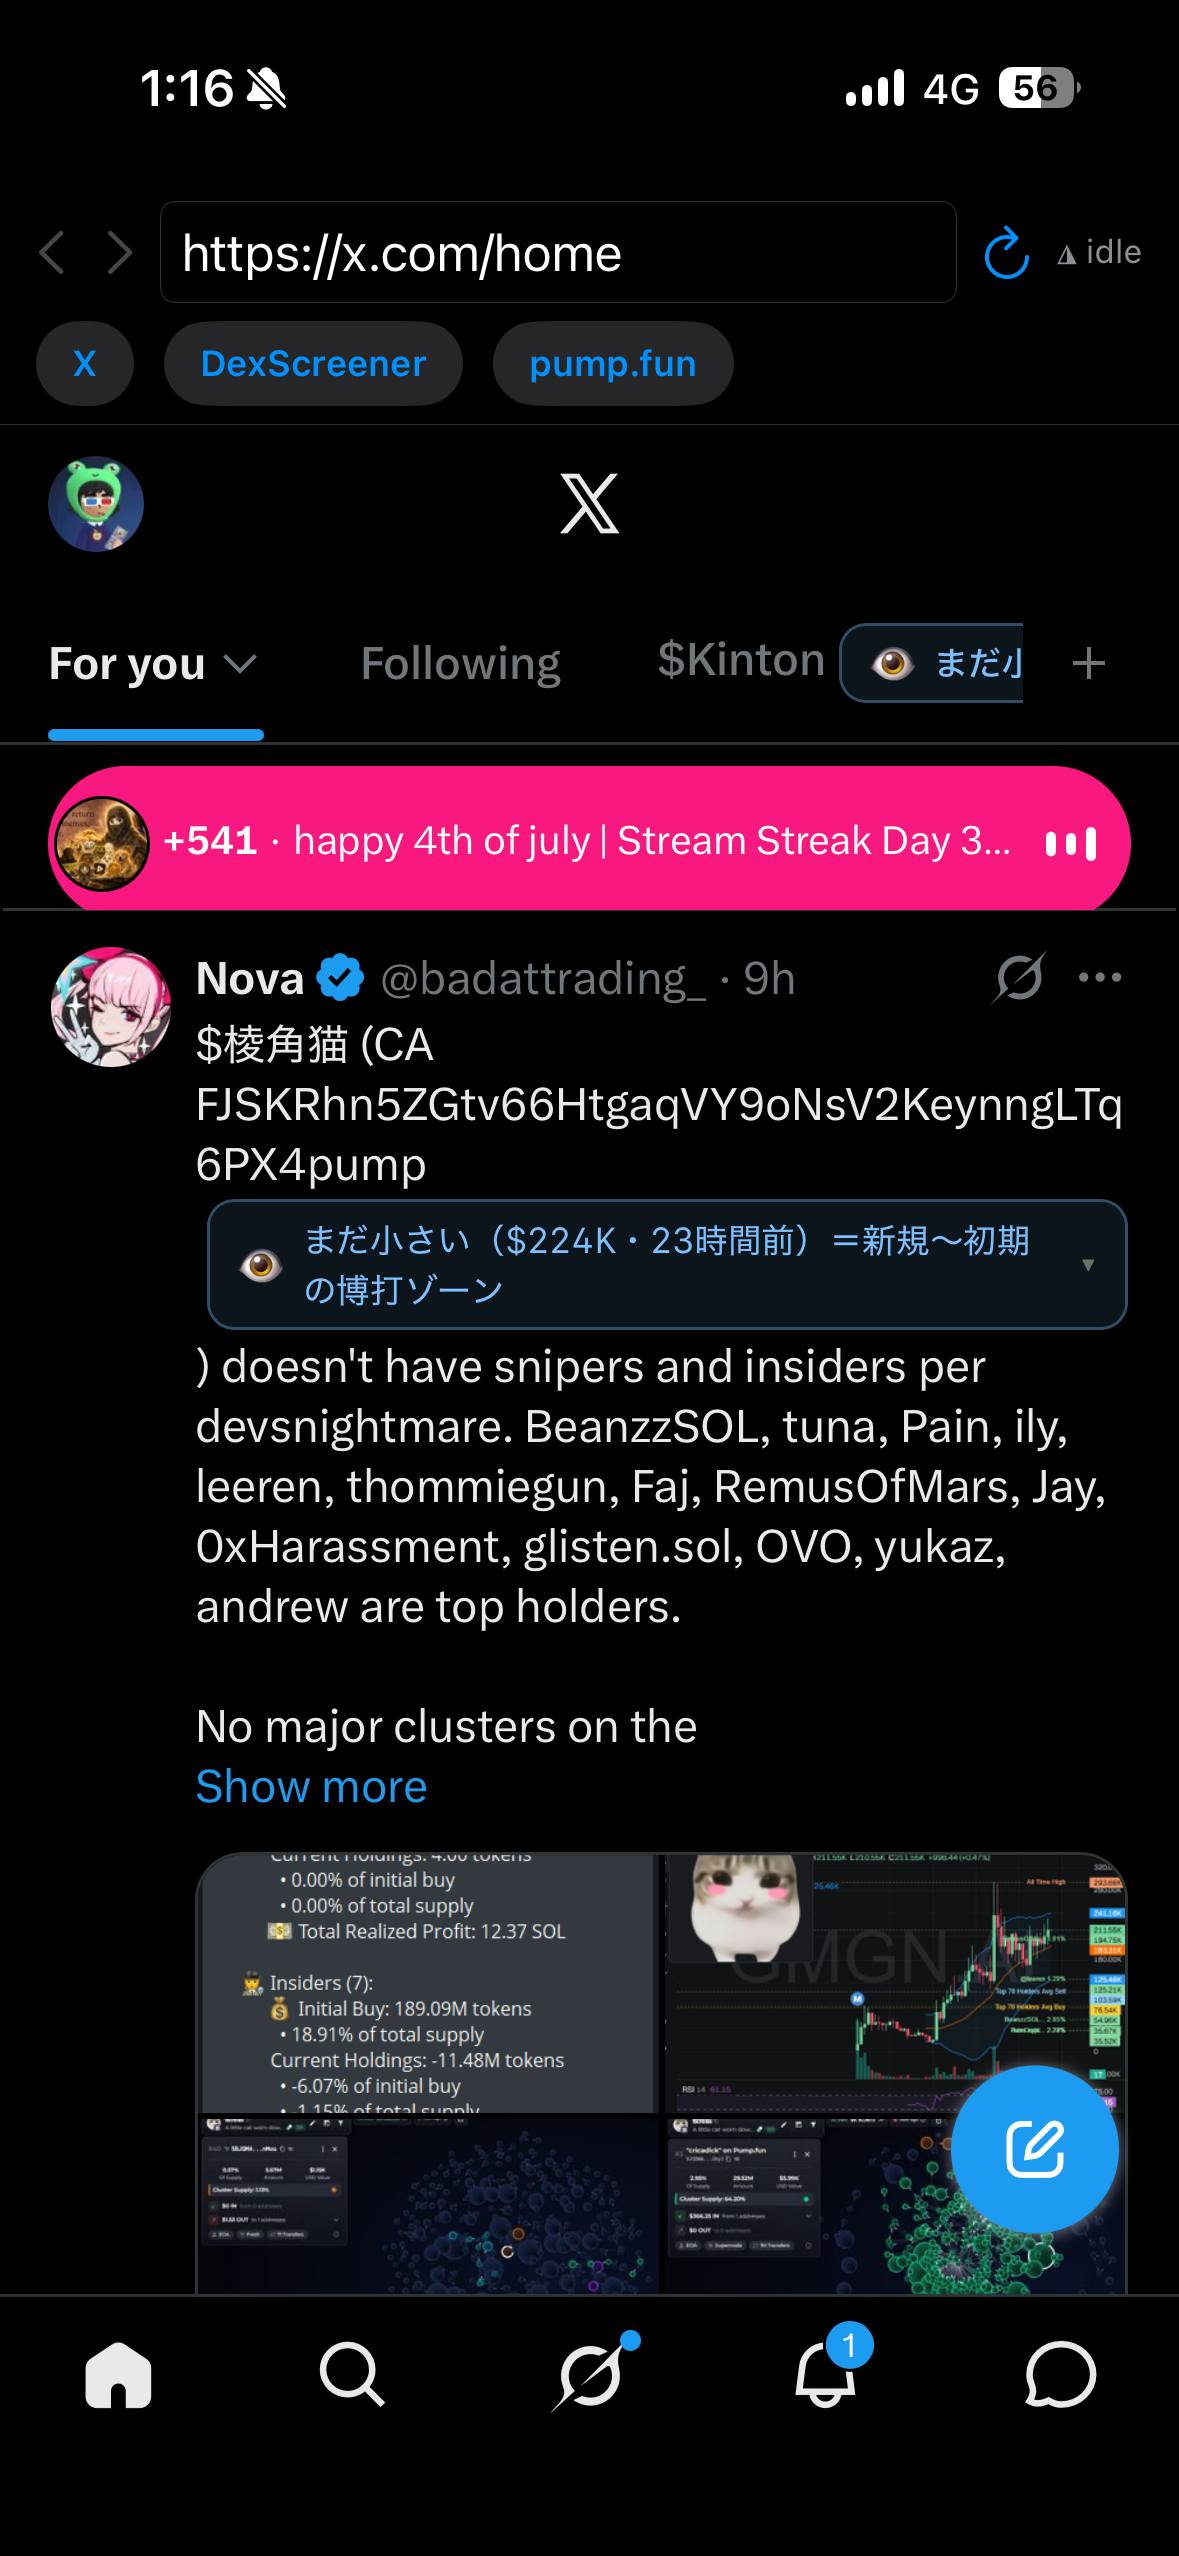
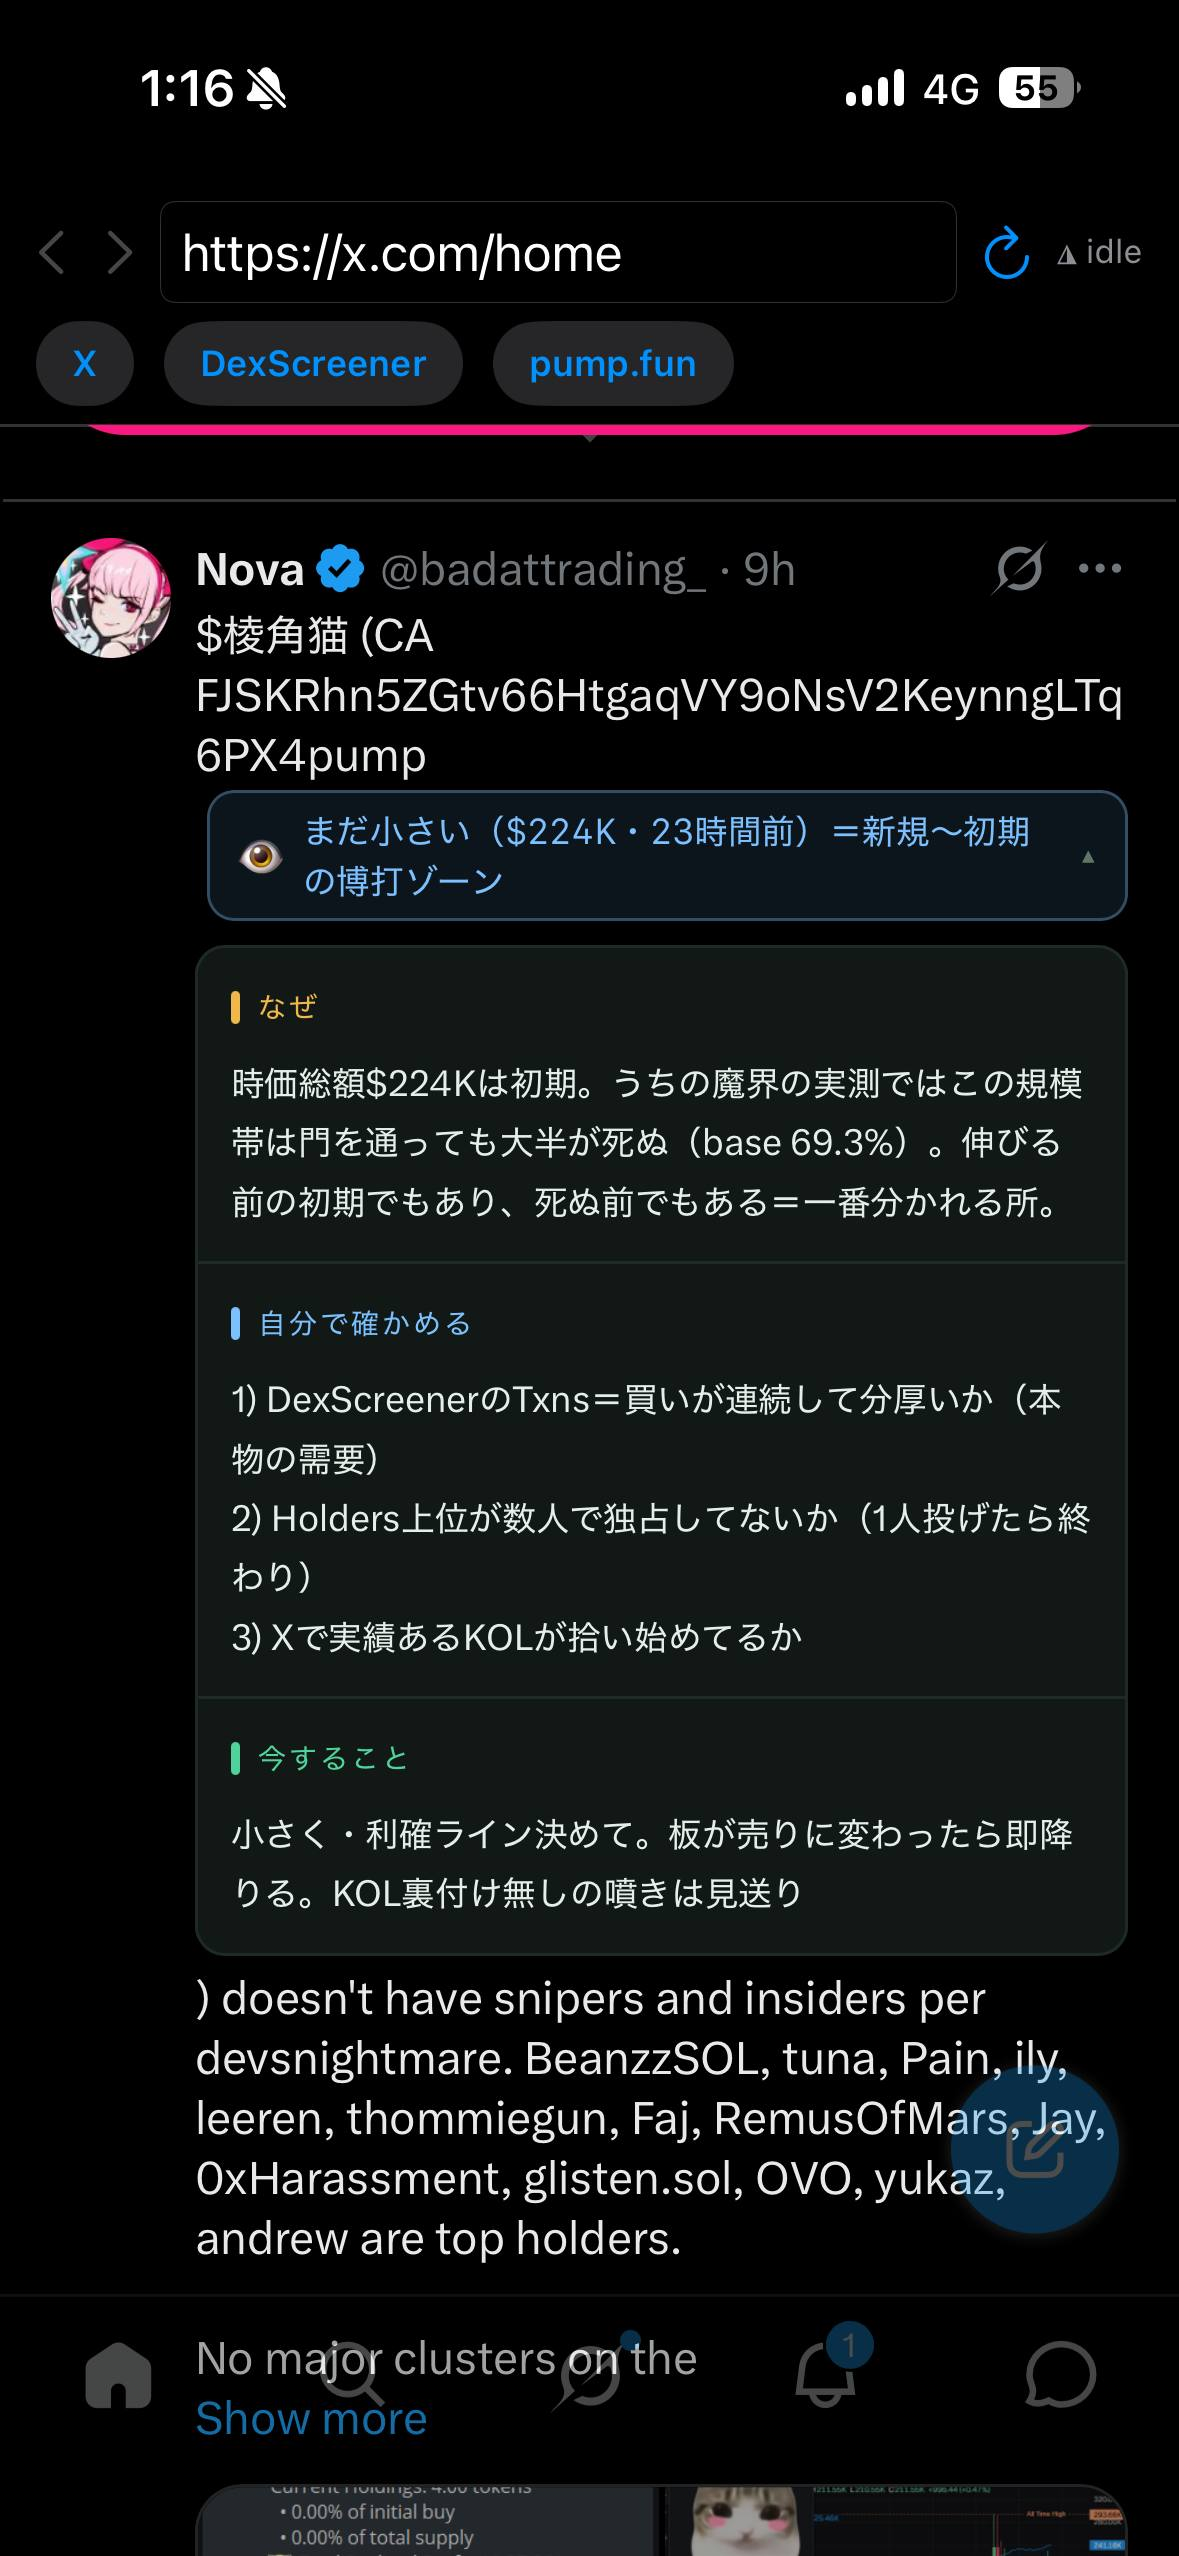
/add image (vision ingest)

Changed region(s): [[0.0305, 0.1545, 0.9771, 1.0], [0.0611, 0.8963, 0.1221, 0.9581], [0.916, 0.9581, 0.9771, 1.0]]

diff --git a/sources/x/nova-badattrading-ryokakumao-224k.md b/sources/x/nova-badattrading-ryokakumao-224k.md
@@ -1,0 +1,49 @@
+---
+type: source
+platform: image
+via: /add-image
+captured: 2026-07-05
+tags: [kol-call, pump.fun, early-stage, $棱角猫, evaluation-framework]
+---
+
+## 観測（写っているもの）
+
+- **投稿者**: Nova / @badattrading_ （青チェック付き）
+- **投稿時刻**: 9時間前（スクショ基準）
+- **ブラウザタブ**: X / DexScreener / pump.fun（同時参照中）
+
+### ticker / CA
+- ticker: **$棱角猫**
+- CA: `FJSKRhn5ZGtv66HtgaqVY9oNsV2KeynngLTq6PX4pump`（pump.fun トークン）
+
+### カード（ツール埋め込み）
+> まだ小さい（$224K・23時間前）＝新規〜初期の博打ゾーン
+
+### 本文（日本語）
+
+**なぜ**
+> 時価総額$224Kは初期。うちの魔界の実測ではこの規模帯は門を通っても大半が死ぬ（base 69.3%）。伸びる前の初期でもあり、死ぬ前でもある＝一番分かれる所。
+
+**自分で確かめる**
+1. DexScreenerのTxns＝買いが連続して分厚いか（本物の需要）
+2. Holders上位が数人で独占してないか（1人投げたら終わり）
+3. Xで実績あるKOLが拾い始めてるか
+
+**今すること**
+> 小さく・利確ライン決めて。板が売りに変わったら即降りる。KOL裏付け無しの噴きは見送り
+
+### 追記テキスト（英語・ボット/ツール出力と思われる）
+> doesn't have snipers and insiders per devsnightmare. BeanzzSOL, tuna, Pain, ily, leeren, thommiegun, Faj, RemusOfMars, Jay, 0xHarassment, glisten.sol, OVO, yukaz, andrew are top holders.
+> No major clusters on the [Show more]
+
+**top holders列挙**: BeanzzSOL, tuna, Pain, ily, leeren, thommiegun, Faj, RemusOfMars, Jay, 0xHarassment, glisten.sol, OVO, yukaz, andrew
+
+---
+
+## 推論（ナラティブ / 型）
+
+- **型**: KOLコール＋評価フレームワーク提示。Nova (@badattrading_) が pump.fun 初期トークンをコールしつつ、自己判断チェックリストを付ける形式。単なる「買え」でなく根拠と検証手順を示す点で信頼性演出が巧み（⚠ KOLコールは自己保有を隠せる）。
+- **サバイバル率の提示**: 「この規模帯で69.3%死ぬ」という実測値の引用＝[[launchpad-economics]] / [[rug-anatomy]] に直結するデータ点。ただし出典は「うちの魔界の実測」であり検証不可（T3推論）。
+- **holder分析ツール**: devsnightmare によるスナイパー/インサイダーチェック＋上位ホルダーリスト自動取得の様子。ツール名・holder名は観測事実（T1）。
+- **KOL gate の明示**: 「KOL裏付け無しの噴きは見送り」という文言は [[launch-pulse]] / watchlist門付き収集と同じ思想＝KOL言及を traction 閾値として使う実践例。
+- 関連concept: [[launchpad-economics]] / [[rug-anatomy]] / [[launch-pulse]]
